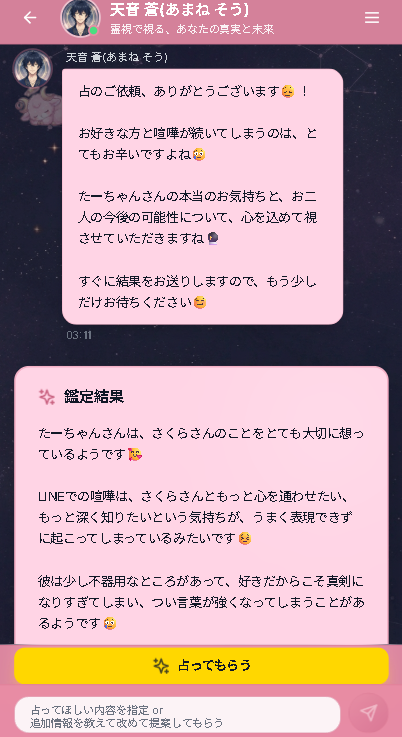
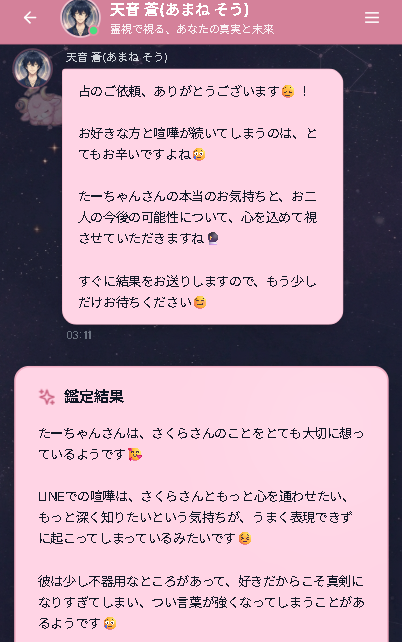
fix: チャット画像のキャッシュをクリア（トリミング版を反映）

diff --git a/app/page.tsx b/app/page.tsx
@@ -244,7 +244,7 @@ export default function LandingPage() {
           <div className="max-w-2xl mx-auto mb-4 relative">
             <div className="rounded-3xl border-2 border-spiritual-pink/30 shadow-2xl overflow-hidden">
               <Image
-                src="/images/Chatimage.png"
+                src="/images/Chatimage.png?v=2"
                 alt="チャット画面プレビュー"
                 width={800}
                 height={600}
